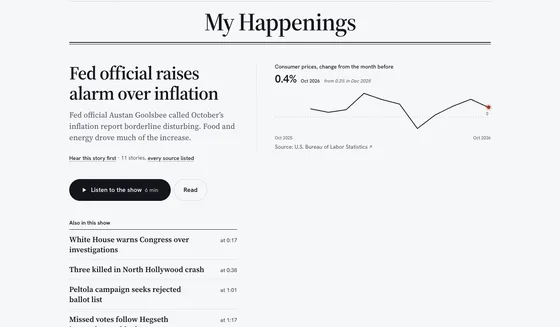
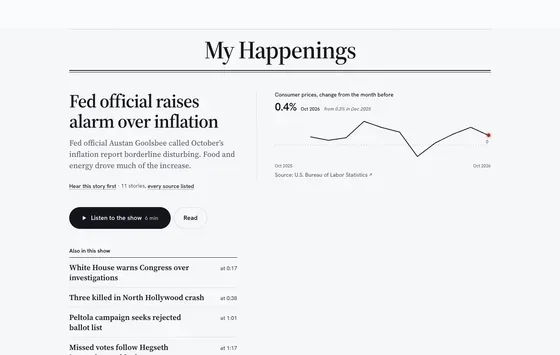
Wall: phone layout fix, tape clears the My Happenings title

diff --git a/index.html b/index.html
@@ -191,12 +191,14 @@
   /* Desktop: the lead fills two columns, DayStart and Plain Ballot hang beside it at half size,
      the rest hang in a row under them. Reading order matches the numbers. */
   .wall{ display: grid; grid-template-columns: repeat(4, minmax(0, 1fr)); gap: 56px 40px; align-items: start; margin-top: 88px; }
-  .wall > .lead{ grid-column: 1 / 3; grid-row: 1; }
-  .wall > :nth-child(2){ grid-column: 3; grid-row: 1; margin-top: 40px; }
-  .wall > :nth-child(3){ grid-column: 4; grid-row: 1 / 3; margin-top: 104px; }
-  .wall > :nth-child(4){ grid-column: 1; grid-row: 2; }
-  .wall > :nth-child(5){ grid-column: 2; grid-row: 2; margin-top: 24px; }
-  .wall > :nth-child(6){ grid-column: 3; grid-row: 2; }
+  @media (min-width: 641px){
+    .wall > .lead{ grid-column: 1 / 3; grid-row: 1; }
+    .wall > :nth-child(2){ grid-column: 3; grid-row: 1; margin-top: 40px; }
+    .wall > :nth-child(3){ grid-column: 4; grid-row: 1 / 3; margin-top: 104px; }
+    .wall > :nth-child(4){ grid-column: 1; grid-row: 2; }
+    .wall > :nth-child(5){ grid-column: 2; grid-row: 2; margin-top: 24px; }
+    .wall > :nth-child(6){ grid-column: 3; grid-row: 2; }
+  }
   .pc{ display: block; text-decoration: none; transition: transform 200ms var(--ease); }
   .pc .sheet{ display: block; transition: box-shadow 200ms var(--ease); }
   .pc img{ display: block; width: 100%; height: auto; }
@@ -292,7 +294,6 @@
     .head h1{ font-size: 48px; line-height: 1.0; letter-spacing: -0.04em; }
     .lede{ font-size: 16px; }
     .wall{ grid-template-columns: 1fr 1fr; gap: 32px 16px; margin-top: 48px; }
-    .wall > *, .wall > .lead{ grid-column: auto; grid-row: auto; margin-top: 0; }
     .wall > .lead{ grid-column: 1 / -1; }
     .pc .tag{ margin-top: 12px; }
     .pc .tag .sub{ display: none; }
@@ -347,7 +348,7 @@
           <a class="pc" href="https://daystartai.app/?ct=site-banana&amp;ref=bananaintelligence" target="_blank" rel="noopener"><span class="sheet"><span class="tape" style="--tilt:2deg" aria-hidden="true"></span><img src="/media/wall/w-ds-m.webp" width="560" height="582" alt="" decoding="async" /></span><span class="tag"><span class="no">2</span><span><b>DayStart</b><span class="sub">, on a phone</span><span class="sr"> (opens in a new tab)</span></span></span></a>
           <a class="pc" href="https://plainballot.com/?ref=bananaintelligence" target="_blank" rel="noopener"><span class="sheet"><span class="tape" style="--tilt:-2.5deg" aria-hidden="true"></span><img src="/media/wall/w-pb-m.webp" width="560" height="962" alt="" decoding="async" /></span><span class="tag"><span class="no">3</span><span><b>Plain Ballot</b><span class="sub">, on a phone</span><span class="sr"> (opens in a new tab)</span></span></span></a>
           <a class="pc" href="https://spookyparticles.com/?ref=bananaintelligence" target="_blank" rel="noopener"><span class="sheet"><span class="tape" style="--tilt:1.5deg" aria-hidden="true"></span><img src="/media/wall/w-sp.webp" width="560" height="327" alt="" decoding="async" /></span><span class="tag"><span class="no">4</span><span><b>Spooky Particles</b><span class="sr"> (opens in a new tab)</span></span></span></a>
-          <a class="pc" href="https://myhappenings.com/?ref=bananaintelligence" target="_blank" rel="noopener"><span class="sheet"><span class="tape" style="--tl:22%;--tilt:-1.5deg" aria-hidden="true"></span><img src="/media/wall/w-mh.webp" width="560" height="327" alt="" decoding="async" /></span><span class="tag"><span class="no">5</span><span><b>My Happenings</b><span class="sr"> (opens in a new tab)</span></span></span></a>
+          <a class="pc" href="https://myhappenings.com/?ref=bananaintelligence" target="_blank" rel="noopener"><span class="sheet"><span class="tape" style="--tilt:-1.5deg" aria-hidden="true"></span><img src="/media/wall/w-mh.webp" width="560" height="355" alt="" decoding="async" /></span><span class="tag"><span class="no">5</span><span><b>My Happenings</b><span class="sr"> (opens in a new tab)</span></span></span></a>
           <a class="pc" href="https://politiciansbyjev.vercel.app/?ref=bananaintelligence" target="_blank" rel="noopener"><span class="sheet"><span class="tape" style="--tl:78%;--tilt:2.5deg" aria-hidden="true"></span><img src="/media/wall/w-jev.webp" width="560" height="327" alt="" decoding="async" /></span><span class="tag"><span class="no">6</span><span><b>Politicians by Jev</b><span class="sub">, paused</span><span class="sr"> (opens in a new tab)</span></span></span></a>
         </div>
       </div>
